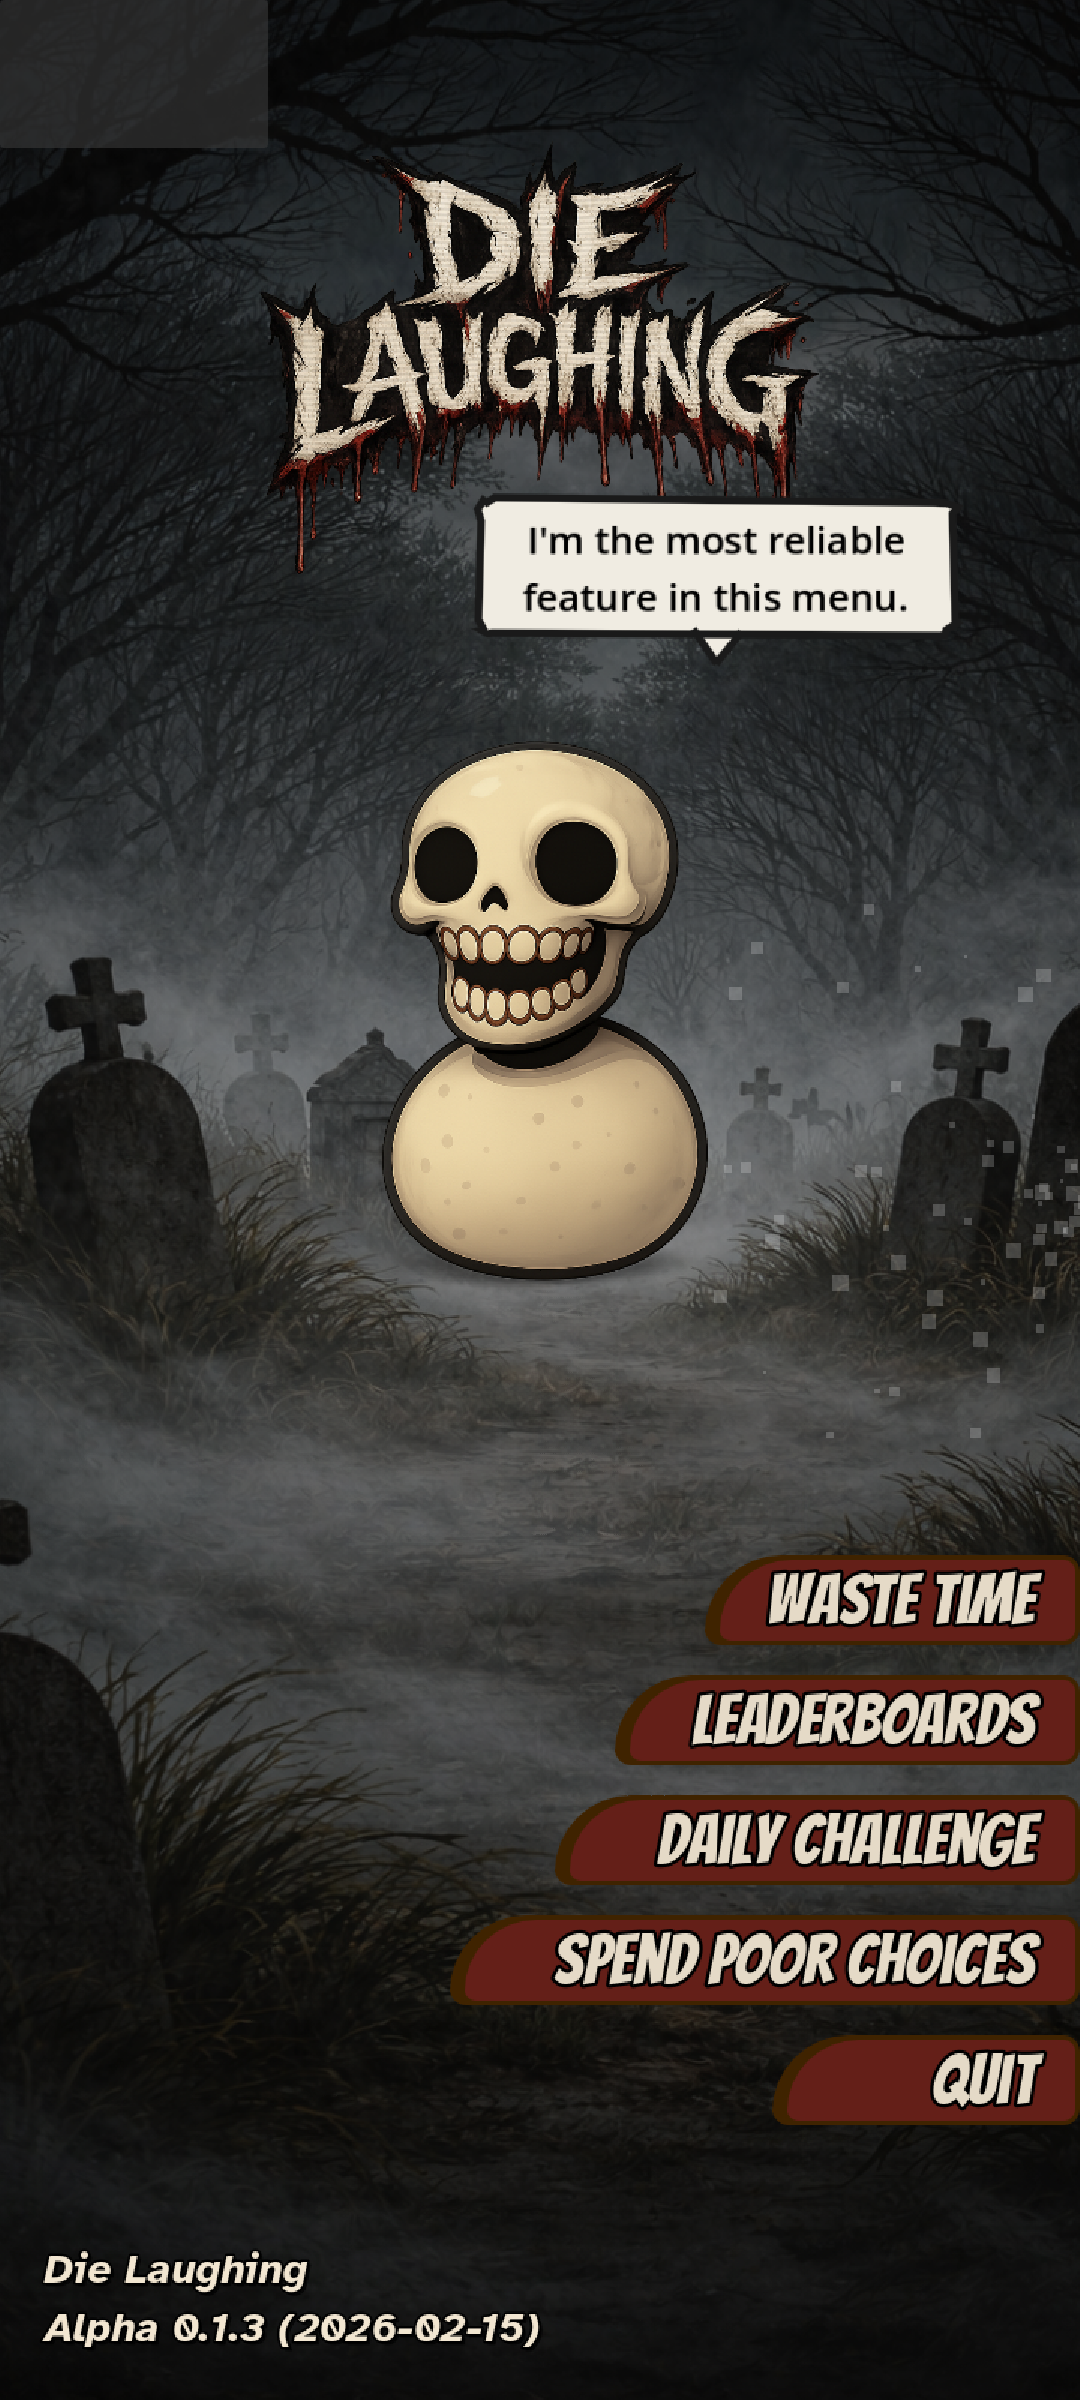
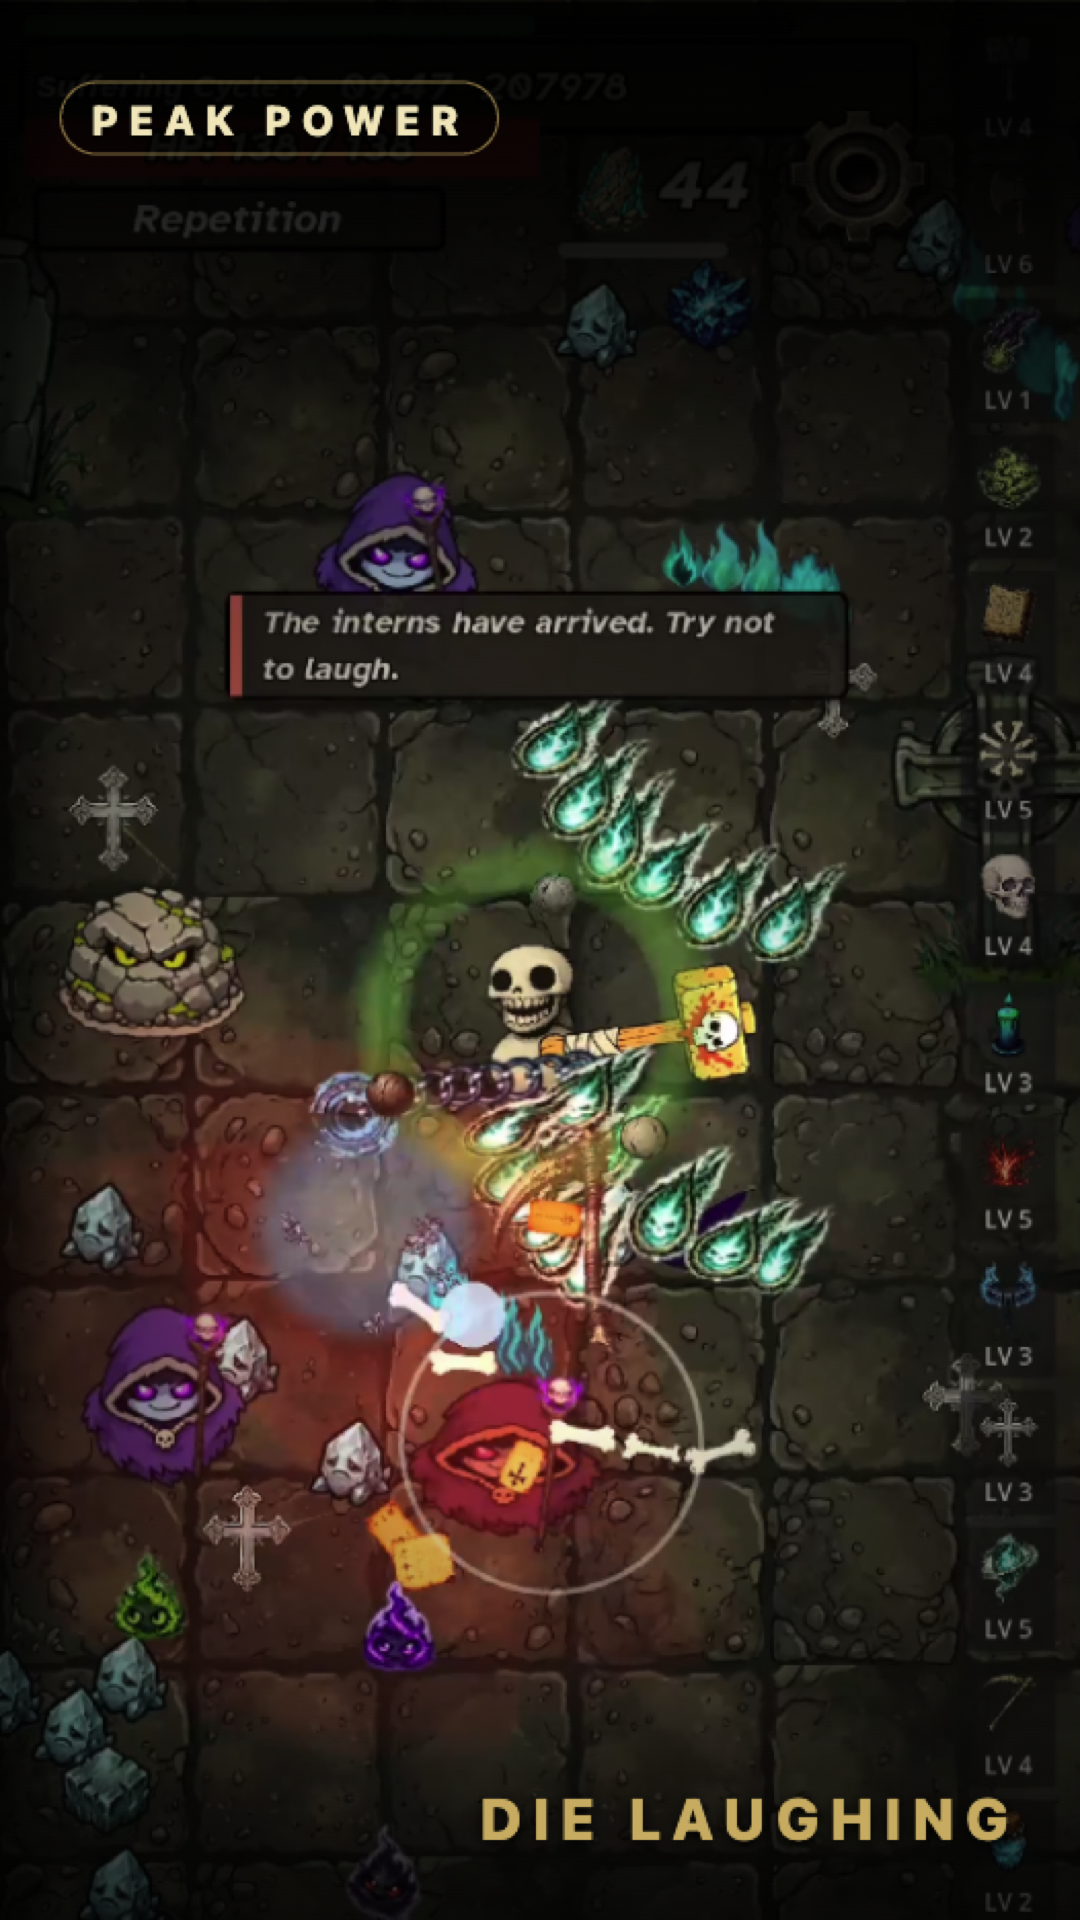
Die Laughing production launch: App Store URL, gameplay video, six enemy screenshots
- Swap TestFlight link for App Store production URL on both CTA groups
- Replace hero still with autoplaying square gameplay video (muted, looped)
- Add 6 mockup screenshots covering each sin enemy (Interns through True Hell)
- Add right-edge fade + grab cursor + thin scrollbar so the screenshot
  scroll is discoverable on desktop
- Refresh info cards, hero sub-copy, header CTA, and final CTA copy to
  match the launched-game voice
- Bump sitemap.xml lastmod for the landing page
- Update README 'Latest Updates' section

diff --git a/die-laughing-landing.html b/die-laughing-landing.html
@@ -3,8 +3,8 @@
 <head>
   <meta charset="UTF-8" />
   <meta name="viewport" content="width=device-width, initial-scale=1" />
-  <title>Die Laughing — Open Alpha &amp; Beta</title>
-  <meta name="description" content="Die Laughing — free roguelite wave survival game for mobile. 10-15 minute runs with dark humor, XP leveling, and upgrade-driven builds. Open alpha on Android, beta on iOS." />
+  <title>Die Laughing — Free Roguelite Wave Survival</title>
+  <meta name="description" content="Die Laughing — free roguelite wave survival game for mobile. 10-15 minute runs, dark humor, XP leveling, and upgrade-driven builds. Now live on iOS and Android." />
   <link rel="canonical" href="https://mladenstojanovic.art/die-laughing-landing.html" />
   <meta name="theme-color" content="#0d1112" />
   <link rel="icon" href="./favicon.ico" type="image/x-icon" />
@@ -12,8 +12,8 @@
   <link rel="icon" href="./favicon-16.png" sizes="16x16" type="image/png" />
   <link rel="apple-touch-icon" href="./favicon-32.png" />
   <link rel="manifest" href="./manifest.json" />
-  <meta property="og:title" content="Die Laughing — Open Alpha & Beta" />
-  <meta property="og:description" content="Die Laughing — free roguelite wave survival game for mobile. 10-15 minute runs with dark humor, XP leveling, and upgrade-driven builds. Open alpha on Android, beta on iOS." />
+  <meta property="og:title" content="Die Laughing — Free Roguelite Wave Survival" />
+  <meta property="og:description" content="Die Laughing — free roguelite wave survival game for mobile. 10-15 minute runs, dark humor, XP leveling, and upgrade-driven builds. Now live on iOS and Android." />
   <meta property="og:type" content="website" />
   <meta property="og:url" content="https://mladenstojanovic.art/die-laughing-landing.html" />
   <meta property="og:image" content="https://mladenstojanovic.art/assets/images/og-image.png" />
@@ -21,8 +21,8 @@
   <meta property="og:image:height" content="630" />
   <meta property="og:site_name" content="Mladen Stojanović" />
   <meta name="twitter:card" content="summary_large_image" />
-  <meta name="twitter:title" content="Die Laughing — Open Alpha & Beta" />
-  <meta name="twitter:description" content="Die Laughing — free roguelite wave survival game for mobile. 10-15 minute runs with dark humor, XP leveling, and upgrade-driven builds. Open alpha on Android, beta on iOS." />
+  <meta name="twitter:title" content="Die Laughing — Free Roguelite Wave Survival" />
+  <meta name="twitter:description" content="Die Laughing — free roguelite wave survival game for mobile. 10-15 minute runs, dark humor, XP leveling, and upgrade-driven builds. Now live on iOS and Android." />
   <meta name="twitter:image" content="https://mladenstojanovic.art/assets/images/og-image.png" />
   <meta name="twitter:image:alt" content="Die Laughing — roguelite wave survival game for mobile" />
   <script type="application/ld+json">
@@ -32,13 +32,18 @@
     "name": "Die Laughing",
     "genre": "Roguelite",
     "gamePlatform": ["iOS", "Android"],
-    "applicationCategory": "Game",
+    "applicationCategory": "GameApplication",
+    "operatingSystem": "iOS, Android",
     "description": "A roguelite wave survival game built for mobile. Dark humor, escalating chaos, and 10–15 minute runs that keep you coming back.",
     "offers": {
       "@type": "Offer",
       "price": "0",
       "priceCurrency": "USD"
     },
+    "installUrl": [
+      "https://apps.apple.com/us/app/die-laughing-rogue-survival/id6760406886",
+      "https://play.google.com/store/apps/details?id=com.MladenStojanovic.dielaughing"
+    ],
     "author": {
       "@type": "Person",
       "name": "Mladen Stojanović",
@@ -257,14 +262,20 @@
       overflow: hidden;
       box-shadow: var(--shadow);
       background: linear-gradient(180deg, rgba(255, 255, 255, 0.06), rgba(255, 255, 255, 0.02));
+      aspect-ratio: 1 / 1;
     }
 
-    .hero-screenshot img {
+    .hero-screenshot img,
+    .hero-screenshot video {
       width: 100%;
+      height: 100%;
       display: block;
-      aspect-ratio: 9 / 16;
       object-fit: cover;
-      object-position: center 30%;
+      object-position: center;
+    }
+
+    .hero-screenshot .hero-fallback {
+      display: none;
     }
 
     section {
@@ -319,11 +330,42 @@
       padding: 0.5rem 0 1rem;
       scroll-snap-type: x mandatory;
       -webkit-overflow-scrolling: touch;
-      scrollbar-width: none;
+      scrollbar-width: thin;
+      scrollbar-color: var(--line) transparent;
+      cursor: grab;
+    }
+
+    .screenshots-scroll:active {
+      cursor: grabbing;
     }
 
     .screenshots-scroll::-webkit-scrollbar {
-      display: none;
+      height: 6px;
+    }
+
+    .screenshots-scroll::-webkit-scrollbar-track {
+      background: transparent;
+    }
+
+    .screenshots-scroll::-webkit-scrollbar-thumb {
+      background: var(--line);
+      border-radius: 3px;
+    }
+
+    .screenshots-scroll-wrap {
+      position: relative;
+    }
+
+    .screenshots-scroll-wrap::after {
+      content: "";
+      position: absolute;
+      top: 0;
+      right: 0;
+      bottom: 1rem;
+      width: 32px;
+      pointer-events: none;
+      background: linear-gradient(to left, var(--bg), transparent);
+      opacity: 0.85;
     }
 
     .screenshots-scroll figure {
@@ -467,6 +509,15 @@
         padding: 2rem 0 2.5rem;
       }
     }
+
+    @media (prefers-reduced-motion: reduce) {
+      .hero-screenshot video {
+        display: none;
+      }
+      .hero-screenshot .hero-fallback {
+        display: block;
+      }
+    }
   </style>
 </head>
 <body>
@@ -475,16 +526,16 @@
   <header>
     <div class="container nav">
       <a href="https://mladenstojanovic.art" class="brand">MLADEN STOJANOVIĆ</a>
-      <a href="#join" class="header-cta">Join Now</a>
+      <a href="#join" class="header-cta">Play Free</a>
     </div>
   </header>
 
   <main class="container">
     <section class="hero">
-      <span class="kicker reveal">Open Alpha &amp; Beta — Free to Play</span>
+      <span class="kicker reveal">Out Now — Free, No Waiting List</span>
       <h1 class="reveal d2">DIE LAUGHING</h1>
       <p class="hero-sub reveal d3">
-        A roguelite wave survival game built for mobile. Dark humor, escalating chaos, and 10–15 minute runs that keep you coming back.
+        A roguelite wave survival game built for mobile. Dark humor, escalating chaos, and 10–15 minute runs. The alpha is over. The thing is real. Go break it.
       </p>
 
       <div id="join" class="cta-group reveal d3">
@@ -492,16 +543,16 @@
           <a class="cta-btn android" href="https://play.google.com/store/apps/details?id=com.MladenStojanovic.dielaughing" target="_blank" rel="noreferrer">
             <svg viewBox="0 0 24 24" fill="currentColor" aria-hidden="true"><path d="M3.609 1.814L13.792 12 3.61 22.186a.996.996 0 0 1-.61-.92V2.734a1 1 0 0 1 .609-.92zm10.89 10.893 2.302 2.302-10.937 6.333 8.635-8.635zm3.187-1.286 2.582 1.493a1 1 0 0 1 0 1.727l-2.582 1.493-2.428-2.428 2.428-2.285zM14.501 12l-8.637-8.637 10.937 6.333-2.3 2.304z"/></svg>
             <span>
-              Play Store — Open Alpha
+              Get it on Google Play
               <span class="cta-label">Android devices</span>
             </span>
           </a>
         </div>
         <div>
-          <a class="cta-btn ios" href="https://testflight.apple.com/join/6wzgr1UE" target="_blank" rel="noreferrer">
+          <a class="cta-btn ios" href="https://apps.apple.com/us/app/die-laughing-rogue-survival/id6760406886" target="_blank" rel="noreferrer">
             <svg viewBox="0 0 24 24" fill="currentColor" aria-hidden="true"><path d="M18.71 19.5c-.83 1.24-1.71 2.45-3.05 2.47-1.34.03-1.77-.79-3.29-.79-1.53 0-2 .77-3.27.82-1.31.05-2.3-1.32-3.14-2.53C4.25 17 2.94 12.45 4.7 9.39c.87-1.52 2.43-2.48 4.12-2.51 1.28-.02 2.5.87 3.29.87.78 0 2.26-1.07 3.8-.91.65.03 2.47.26 3.64 1.98-.09.06-2.17 1.28-2.15 3.81.03 3.02 2.65 4.03 2.68 4.04-.03.07-.42 1.44-1.38 2.83M13 3.5c.73-.83 1.94-1.46 2.94-1.5.13 1.17-.34 2.35-1.04 3.19-.69.85-1.83 1.51-2.95 1.42-.15-1.15.41-2.35 1.05-3.11z"/></svg>
             <span>
-              TestFlight — Open Beta
+              Download on the App Store
               <span class="cta-label">iOS devices</span>
             </span>
           </a>
@@ -509,7 +560,17 @@
       </div>
 
       <div class="hero-screenshot reveal d3">
-        <img src="./assets/screenshots/die_laughing1.png" alt="Die Laughing roguelite gameplay with enemy waves and XP gems" loading="eager" />
+        <video
+          src="./assets/gameplay_video/web_video_square.mp4"
+          poster="./assets/screenshots/die_laughing2.png"
+          autoplay
+          muted
+          loop
+          playsinline
+          preload="metadata"
+          aria-label="Die Laughing gameplay loop"
+        ></video>
+        <img class="hero-fallback" src="./assets/screenshots/die_laughing2.png" alt="Die Laughing boss fight with The Auditor" />
       </div>
     </section>
 
@@ -537,67 +598,84 @@
     <section id="screenshots">
       <h2 class="section-title">SCREENSHOTS</h2>
       <p class="section-copy">
-        Swipe to see more from the current build.
+        Six sins, six flavors of bad day. Scroll sideways for more.
       </p>
-      <div class="screenshots-scroll">
-        <figure>
-          <img src="./assets/screenshots/die_laughing1.png" alt="Die Laughing roguelite gameplay with enemy waves and XP gems" loading="lazy" />
-          <figcaption>Wave pressure moment</figcaption>
-        </figure>
+      <div class="screenshots-scroll-wrap">
+        <div class="screenshots-scroll">
+          <figure>
+            <img src="./assets/screenshots/die_laughing1.png" alt="Die Laughing gameplay with the Interns enemy wave" loading="lazy" />
+            <figcaption>Interns — they're new. They're eager. They're everywhere.</figcaption>
+          </figure>
+          <figure>
+            <img src="./assets/screenshots/die_laughing2.png" alt="Die Laughing boss fight with The Auditor" loading="lazy" />
+            <figcaption>The Auditor — try not to die screaming.</figcaption>
+          </figure>
+          <figure>
+            <img src="./assets/screenshots/die_laughing3.png" alt="Die Laughing shop encounter with the Shopkeeper" loading="lazy" />
+            <figcaption>Shopkeeper — yes, the prices are a sin. Yes, you still want them.</figcaption>
+          </figure>
+          <figure>
+            <img src="./assets/screenshots/die_laughing4.png" alt="Die Laughing combat with the Angel enemy" loading="lazy" />
+            <figcaption>Angel — wings, halos, zero mercy.</figcaption>
+          </figure>
+          <figure>
+            <img src="./assets/screenshots/die_laughing5.png" alt="Die Laughing HP-7190 elite fight" loading="lazy" />
+            <figcaption>HP-7190 — when "dying laughing" stops being a joke.</figcaption>
+          </figure>
+          <figure>
+            <img src="./assets/screenshots/die_laughing6.png" alt="Die Laughing True Hell difficulty" loading="lazy" />
+            <figcaption>True Hell — you asked for this. Genuinely.</figcaption>
+          </figure>
+        </div>
       </div>
     </section>
 
     <section id="info">
-      <h2 class="section-title">BEFORE YOU JOIN</h2>
+      <h2 class="section-title">BEFORE YOU DOWNLOAD</h2>
       <p class="section-copy">
-        A few things to know about the open alpha and beta.
+        A few things to know before you install.
       </p>
       <div class="info-cards">
         <article class="info-card">
-          <h3>It's a Work in Progress</h3>
-          <p>This is an early build. Expect bugs, balance changes, and incomplete features. Your feedback directly shapes what comes next.</p>
+          <h3>It's Live, Not Perfect</h3>
+          <p>Launched, not finished. The first public build will still get patches, balance passes, and the occasional regrettable decision. We fix things fast and we don't pretend otherwise.</p>
         </article>
         <article class="info-card">
-          <h3>What We Need From You</h3>
+          <h3>How to Install</h3>
           <ul>
-            <li>Play through runs and note what feels off</li>
-            <li>Report crashes or game-breaking bugs</li>
-            <li>Share what's fun and what isn't</li>
-            <li>Tell us if difficulty feels fair</li>
+            <li><strong>Android:</strong> Tap the Google Play button, hit install, and you're in. Standard Play Store flow.</li>
+            <li><strong>iOS:</strong> Tap the App Store button, hit get, and you're in. No TestFlight, no invites, no waiting list.</li>
           </ul>
         </article>
         <article class="info-card">
-          <h3>How to Join</h3>
-          <ul>
-            <li><strong>Android:</strong> Click the Play Store button above, join the open alpha, then install from Google Play.</li>
-            <li><strong>iOS:</strong> Click the TestFlight button, accept the invite, and install through the TestFlight app.</li>
-          </ul>
+          <h3>What's Free, What's Not</h3>
+          <p>The full game is free to download and play. There are ads. There are no pay-to-win mechanics. If something feels rotten about that, it probably is — and we want to hear about it.</p>
         </article>
         <article class="info-card">
           <h3>Privacy &amp; Data</h3>
-          <p>We respect your privacy. Read our <a href="./die-laughing-privacy-policy.html" style="color: #f7c0a3;">Privacy Policy</a> for details on what data may be collected and how it's used.</p>
+          <p>We collect the bare minimum. Read our <a href="./die-laughing-privacy-policy.html" style="color: #f7c0a3;">Privacy Policy</a> for the full, slightly uncomfortable truth about what an ad-supported game actually does.</p>
         </article>
       </div>
     </section>
 
     <section class="final-cta">
-      <h2>READY TO PLAY?</h2>
-      <p>Grab your platform, jump in, and let us know what you think.</p>
+      <h2>READY TO DIE LAUGHING?</h2>
+      <p>Pick your platform, install, and find out what a wave really feels like.</p>
       <div class="cta-group">
         <div>
           <a class="cta-btn android" href="https://play.google.com/store/apps/details?id=com.MladenStojanovic.dielaughing" target="_blank" rel="noreferrer">
             <svg viewBox="0 0 24 24" fill="currentColor" aria-hidden="true"><path d="M3.609 1.814L13.792 12 3.61 22.186a.996.996 0 0 1-.61-.92V2.734a1 1 0 0 1 .609-.92zm10.89 10.893 2.302 2.302-10.937 6.333 8.635-8.635zm3.187-1.286 2.582 1.493a1 1 0 0 1 0 1.727l-2.582 1.493-2.428-2.428 2.428-2.285zM14.501 12l-8.637-8.637 10.937 6.333-2.3 2.304z"/></svg>
             <span>
-              Play Store — Open Alpha
+              Get it on Google Play
               <span class="cta-label">Android devices</span>
             </span>
           </a>
         </div>
         <div>
-          <a class="cta-btn ios" href="https://testflight.apple.com/join/6wzgr1UE" target="_blank" rel="noreferrer">
+          <a class="cta-btn ios" href="https://apps.apple.com/us/app/die-laughing-rogue-survival/id6760406886" target="_blank" rel="noreferrer">
             <svg viewBox="0 0 24 24" fill="currentColor" aria-hidden="true"><path d="M18.71 19.5c-.83 1.24-1.71 2.45-3.05 2.47-1.34.03-1.77-.79-3.29-.79-1.53 0-2 .77-3.27.82-1.31.05-2.3-1.32-3.14-2.53C4.25 17 2.94 12.45 4.7 9.39c.87-1.52 2.43-2.48 4.12-2.51 1.28-.02 2.5.87 3.29.87.78 0 2.26-1.07 3.8-.91.65.03 2.47.26 3.64 1.98-.09.06-2.17 1.28-2.15 3.81.03 3.02 2.65 4.03 2.68 4.04-.03.07-.42 1.44-1.38 2.83M13 3.5c.73-.83 1.94-1.46 2.94-1.5.13 1.17-.34 2.35-1.04 3.19-.69.85-1.83 1.51-2.95 1.42-.15-1.15.41-2.35 1.05-3.11z"/></svg>
             <span>
-              TestFlight — Open Beta
+              Download on the App Store
               <span class="cta-label">iOS devices</span>
             </span>
           </a>

diff --git a/README.md b/README.md
@@ -12,7 +12,11 @@ It includes:
 - Privacy policy and compliance pages for published apps/games
 - Related SEO files (`sitemap.xml`, `robots.txt`, `manifest.json`)
 
-## Latest Updates (2026-05-07)
+## Latest Updates (2026-06-09)
+- Die Laughing moved from open alpha/beta to full production launch on iOS and Android.
+  - Updated `die-laughing-landing.html`: swapped TestFlight → App Store production URL, refreshed hero copy, info cards, and final CTA to reflect a launched game.
+  - Bumped `sitemap.xml` `lastmod` for the Die Laughing landing page.
+  - The privacy policy, account deletion, and age suitability pages for Die Laughing are unchanged.
 - Added full Yurui app presence:
   - `yurui-landing.html`
   - `yurui-privacy-policy.html`